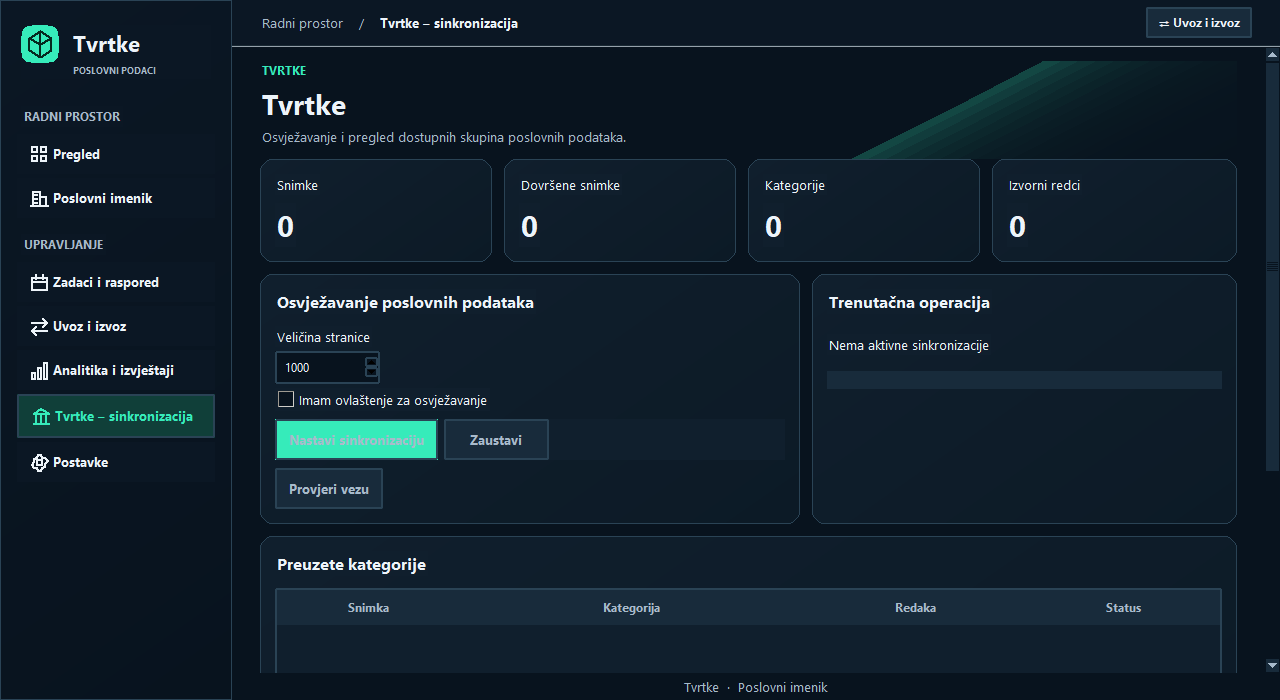
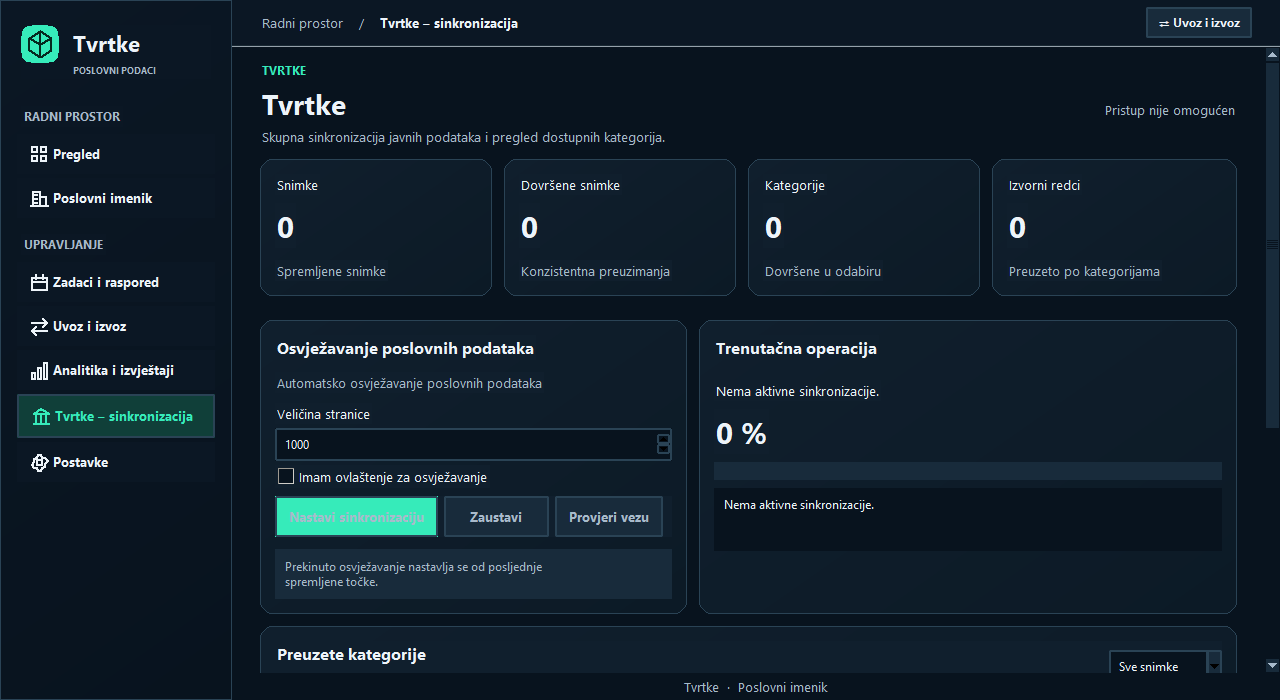
Align native synchronization view and enforce authorized refresh policy

diff --git a/src/native_sections.py b/src/native_sections.py
@@ -3,6 +3,7 @@ import tkinter as tk
 from tkinter import ttk, filedialog, messagebox
 from pathlib import Path
 from native_transfer import upload,download
+from native_progress import sync_progress
 from native_theme import Card, PANEL, TEXT, MUTED, ACCENT, PANEL2
 
 FORMATS={"CSV":"csv","JSON":"json","Excel":"xlsx"}
@@ -314,23 +315,30 @@ class SecondaryPages:
 
     def build_registry(self):
         view=self.views["registry"]
-        self.section_header(view,"TVRTKE","Tvrtke","Osvježavanje i pregled dostupnih skupina poslovnih podataka.")
-        metrics=ttk.Frame(view);metrics.pack(fill="x",pady=(0,12))
+        heading=ttk.Frame(view);heading.pack(fill="x")
+        copy=ttk.Frame(heading);copy.pack(side="left",fill="x",expand=True)
+        self.section_header(copy,"TVRTKE","Tvrtke","Skupna sinkronizacija javnih podataka i pregled dostupnih kategorija.")
+        self.registry_access_label=tk.StringVar(value="Provjera pristupa…")
+        ttk.Label(heading,textvariable=self.registry_access_label,style="Muted.TLabel").pack(side="right")
+        metrics=ttk.Frame(view);metrics.pack(fill="x",pady=(0,24))
         self.registry_values={}
         for col,(key,label) in enumerate((("runs","Snimke"),("complete","Dovršene snimke"),("categories","Kategorije"),("rows","Izvorni redci"))):
             metrics.columnconfigure(col,weight=1,uniform="metric")
             panel=Card(metrics,padding=15);panel.grid(row=0,column=col,sticky="nsew",padx=(0,12 if col<3 else 0))
             ttk.Label(panel,text=label,style="Panel.TLabel").pack(anchor="w",pady=(0,8))
             var=tk.StringVar(value="—");self.registry_values[key]=var
-            ttk.Label(panel,textvariable=var,font=("Segoe UI",22,"bold")).pack(anchor="w")
+            ttk.Label(panel,textvariable=var,style="Metric.TLabel").pack(anchor="w")
+            captions={"runs":"Spremljene snimke","complete":"Konzistentna preuzimanja","categories":"Dovršene u odabiru","rows":"Preuzeto po kategorijama"}
+            ttk.Label(panel,text=captions[key],style="PanelMuted.TLabel").pack(anchor="w",pady=(12,0))
         self.register_grid(metrics,4)
         grid=ttk.Frame(view);grid.pack(fill="x")
-        grid.columnconfigure(0,weight=1);grid.columnconfigure(1,weight=1)
+        grid.columnconfigure(0,weight=9);grid.columnconfigure(1,weight=8)
         actions=self.panel(grid,"Osvježavanje poslovnih podataka",0)
         operation=self.panel(grid,"Trenutačna operacija",1)
+        ttk.Label(actions,text="Automatsko osvježavanje poslovnih podataka",style="PanelMuted.TLabel").pack(anchor="w",pady=(0,10))
         ttk.Label(actions,text="Veličina stranice").pack(anchor="w")
         self.registry_limit=tk.StringVar(value="1000")
-        ttk.Spinbox(actions,from_=1,to=1000,textvariable=self.registry_limit,width=12).pack(anchor="w",pady=4)
+        ttk.Spinbox(actions,from_=1,to=1000,textvariable=self.registry_limit,width=12).pack(fill="x",pady=4)
         self.registry_permission=tk.BooleanVar()
         ttk.Checkbutton(actions,text="Imam ovlaštenje za osvježavanje",variable=self.registry_permission).pack(anchor="w")
         buttons=ttk.Frame(actions);buttons.pack(fill="x",pady=8)
@@ -338,41 +346,79 @@ class SecondaryPages:
         self.registry_start.pack(side="left")
         self.registry_stop=ttk.Button(buttons,text="Zaustavi",command=lambda:self.registry_operation("stop"))
         self.registry_stop.pack(side="left",padx=6)
-        self.registry_check=ttk.Button(actions,text="Provjeri vezu",command=lambda:self.registry_operation("check"))
-        self.registry_check.pack(anchor="w")
+        self.registry_check=ttk.Button(buttons,text="Provjeri vezu",command=lambda:self.registry_operation("check"))
+        self.registry_check.pack(side="left")
+        ttk.Label(actions,text="Prekinuto osvježavanje nastavlja se od posljednje spremljene točke.",style="Hint.TLabel",wraplength=310).pack(fill="x",pady=(4,0))
         self.registry_progress=tk.StringVar(value="Nema aktivne sinkronizacije")
         ttk.Label(operation,textvariable=self.registry_progress,wraplength=300).pack(anchor="w",pady=8)
         self.registry_bar=ttk.Progressbar(operation,maximum=100);self.registry_bar.pack(fill="x",pady=8)
+        self.registry_log=tk.Text(operation,height=3,wrap="word",background="#08131e",foreground=TEXT,relief="flat",padx=9,pady=8,font=("Segoe UI",-12),state="disabled")
+        self.registry_log.pack(fill="x")
+        self.registry_log_signature=None
         self.register_grid(grid,2)
-        category_panel=Card(view,"Preuzete kategorije",padding=15);category_panel.pack(fill="both",expand=True)
+        category_panel=Card(view,padding=15);category_panel.pack(fill="both",expand=True)
+        header=ttk.Frame(category_panel,style="PanelInner.TFrame");header.pack(fill="x",pady=(0,8))
+        copy=ttk.Frame(header,style="PanelInner.TFrame");copy.pack(side="left",fill="x",expand=True)
+        ttk.Label(copy,text="Preuzete kategorije",style="PanelTitle.TLabel").pack(anchor="w")
+        ttk.Label(copy,text="Dostupne skupine poslovnih podataka.",style="PanelMuted.TLabel").pack(anchor="w",pady=(5,0))
+        self.registry_filter=tk.StringVar(value="Sve snimke")
+        self.registry_filterbox=ttk.Combobox(header,textvariable=self.registry_filter,values=["Sve snimke"],state="readonly",width=13)
+        self.registry_filterbox.pack(side="right",padx=(6,0))
+        self.registry_filterbox.bind("<<ComboboxSelected>>",lambda _e:self.refresh_registry())
         self.registry_table=ttk.Treeview(category_panel,columns=("snapshot","category","rows","status"),show="headings",height=6)
         for key,label,width in (("snapshot","Snimka",90),("category","Kategorija",250),("rows","Redaka",130),("status","Status",100)):
-            self.registry_table.heading(key,text=label);self.registry_table.column(key,width=width)
+            self.registry_table.heading(key,text=label.upper(),anchor="w");self.registry_table.column(key,width=width)
         self.registry_table.pack(fill="both",expand=True)
         buttons=ttk.Frame(category_panel);buttons.pack(fill="x",pady=6)
         ttk.Button(buttons,text="Osvježi",command=self.refresh_registry).pack(side="right")
         ttk.Button(buttons,text="Otvori kategoriju",command=self.open_category).pack(side="right",padx=6)
         self.registry_table.bind("<Double-1>",lambda _e:self.open_category())
         self.registry_items={}
+        self.registry_pending=False
+        self.registry_signature=None
+        self.registry_percent=tk.StringVar(value="0 %")
+        ttk.Label(operation,textvariable=self.registry_percent,style="Metric.TLabel").pack(anchor="w",before=self.registry_bar)
 
     def refresh_registry(self):
-        if not self.client:return
+        if not self.client or self.registry_pending:return
+        self.registry_pending=True
         def done(result):
+            self.registry_pending=False
             data,status=result
             runs=data["runs"];categories=data["categories"]
             for key,value in (("runs",len(runs)),("complete",sum(bool(r["complete"]) for r in runs)),("categories",sum(bool(r["done"]) for r in categories)),("rows",sum(r["rows"] for r in categories))):
                 self.registry_values[key].set(f"{value:,}".replace(",","."))
-            self.registry_table.delete(*self.registry_table.get_children());self.registry_items.clear()
-            for index,row in enumerate(categories):
-                self.registry_items[str(index)]=row
-                self.registry_table.insert("","end",iid=str(index),values=(row["snapshot"],row["category"],f"{row['rows']} / {row['total'] if row['total'] is not None else '—'}","Preuzeto" if row["done"] else "U tijeku"))
+            options=["Sve snimke"]+[str(r["snapshot"]) for r in runs]
+            self.registry_filterbox.configure(values=options)
+            if self.registry_filter.get() not in options:self.registry_filter.set("Sve snimke")
+            filtered=[r for r in categories if self.registry_filter.get()=="Sve snimke" or str(r["snapshot"])==self.registry_filter.get()]
+            self.registry_access_label.set("Pristup omogućen" if data.get("configured") else "Pristup nije omogućen")
+            signature=tuple((r["snapshot"],r["category"],r["rows"],r["total"],r["done"]) for r in filtered)
+            if signature!=self.registry_signature:
+                self.registry_signature=signature
+                selected=self.registry_table.selection()
+                previous=self.registry_items.get(selected[0]) if selected else None
+                self.registry_table.delete(*self.registry_table.get_children());self.registry_items.clear()
+                for index,row in enumerate(filtered):
+                    key=str(index);self.registry_items[key]=row
+                    self.registry_table.insert("","end",iid=key,values=(row["snapshot"],row["category"],f"{row['rows']} / {row['total'] if row['total'] is not None else '—'}","Preuzeto" if row["done"] else "U tijeku"))
+                    if previous and (previous["snapshot"],previous["category"])==(row["snapshot"],row["category"]):self.registry_table.selection_set(key)
             active=status.get("status") in ("running","stopping")
             self.registry_start.configure(state="normal" if data.get("configured") and not active else "disabled")
             self.registry_check.configure(state="normal" if data.get("configured") and not active else "disabled")
             self.registry_stop.configure(state="normal" if active else "disabled")
-            self.registry_progress.set("Sinkronizacija je u tijeku…" if active else "Nema aktivne sinkronizacije")
-            self.registry_bar["value"]=100*status.get("projected",0)/max(1,status.get("projection_total",1)) if status.get("phase")=="projection" else 0
-        self.submit(lambda:(self.client.request("/api/registry"),self.client.request("/api/status")),done)
+            percent,label=sync_progress(status,categories)
+            self.registry_progress.set(label);self.registry_bar["value"]=percent
+            self.registry_percent.set(f"{int(percent)} %")
+            logs=tuple(str(x) for x in status.get("logs",[])[-10:]) or (label,)
+            if logs!=self.registry_log_signature:
+                self.registry_log_signature=logs
+                self.registry_log.configure(state="normal");self.registry_log.delete("1.0","end")
+                self.registry_log.insert("end","\n".join(logs));self.registry_log.see("end");self.registry_log.configure(state="disabled")
+        def failed(_exc):
+            self.registry_pending=False
+            self.registry_progress.set("Osvježavanje statusa nije uspjelo.")
+        self.submit(lambda:(self.client.request("/api/registry"),self.client.request("/api/status")),done,failed)
 
     def registry_operation(self,action):
         if not self.client:return

diff --git a/tests/test_native_progress.py b/tests/test_native_progress.py
@@ -1,0 +1,29 @@
+import unittest
+from unittest.mock import patch, Mock
+from native_progress import sync_progress
+from registry import start_registry
+from core import Collector
+
+class NativeProgressTests(unittest.TestCase):
+    def test_only_committed_completion_reaches_100(self):
+        for status,expected in [
+            ({"status":"running","phase":"projection","projected":10,"projection_total":10},99),
+            ({"status":"running","phase":"finalizing"},99),
+            ({"status":"completed","phase":"complete"},100),
+            ({"status":"completed","update_available":"22"},0),
+            ({"status":"failed","phase":"complete"},0),
+        ]:
+            self.assertEqual(sync_progress(status,[])[0],expected)
+    def test_counts_only_current_snapshot(self):
+        categories=[{"snapshot":"21","done":1},{"snapshot":"22","done":1},{"snapshot":"22","done":0}]
+        self.assertEqual(sync_progress({"status":"running","phase":"download","snapshot_id":"22","last":2},categories)[0],42.5)
+    def test_thread_forwards_refresh_policy(self):
+        bot=Collector(None)
+        registry=Mock()
+        registry.sync.return_value=False
+        with patch("registry.Client") as client, patch("registry.threading.Thread") as thread:
+            thread.side_effect=lambda target,daemon:Mock(start=target)
+            start_registry(bot,registry,("test","test"),allow_full_refresh=False)
+            registry.sync.assert_called_once_with(bot,client.return_value,500,pinned_snapshot=None,allow_full_refresh=False)
+            self.assertEqual(bot.snapshot()["status"],"completed")
+            self.assertNotIn("Sinkronizacija završena."," ".join(bot.snapshot()["logs"]))

diff --git a/src/native_desktop.py b/src/native_desktop.py
@@ -265,7 +265,10 @@ class Desktop(SecondaryPages):
         self.submit(lambda:(self.client.request("/api/cities"),self.client.request("/api/industries")),self.facets)
         if self.current_view=="overview":self.refresh_overview()
         elif self.current_view=="directory":self.refresh()
-        else:self.refresh_settings()
+        elif self.current_view=="settings":self.refresh_settings()
+        elif self.current_view=="jobs":self.refresh_jobs()
+        elif self.current_view=="registry":self.refresh_registry()
+        elif self.current_view=="analytics":self.refresh_analytics()
         self.poll_sync()
 
     def facets(self, result):
@@ -920,7 +923,11 @@ class Desktop(SecondaryPages):
                 if state=="completed":
                     self.page=1
                     if self.current_view=="overview":self.refresh_overview()
-                    else:self.refresh()
+                    elif self.current_view=="directory":self.refresh()
+                    elif self.current_view=="analytics":self.refresh_analytics()
+                    elif self.current_view=="jobs":self.refresh_jobs()
+                    elif self.current_view=="registry":self.refresh_registry()
+                    elif self.current_view=="settings":self.refresh_settings()
                     self.submit(lambda:(self.client.request("/api/cities"),self.client.request("/api/industries")),self.facets)
                 else:self.status.set("Sinkronizacija nije završena.")
         if not self.sync_polling:

diff --git a/src/native_progress.py b/src/native_progress.py
@@ -1,0 +1,23 @@
+"""Presentation of registry progress; never report completion before commit."""
+def sync_progress(status, categories):
+    state=status.get("status")
+    phase=status.get("phase")
+    if state=="completed" and status.get("update_available") and phase!="complete":
+        return 0,"Dostupna je nova snimka. Potvrdite preuzimanje."
+    if state=="completed" and phase=="complete":
+        return 100,"Sinkronizacija je završena."
+    if state=="failed":return 0,"Sinkronizacija nije uspjela. Spremljeni podaci su sačuvani."
+    if state=="stopped":return 0,"Sinkronizacija je zaustavljena. Preuzete stranice su sačuvane."
+    if state not in ("running","stopping"):return 0,"Nema aktivne sinkronizacije."
+    if state=="stopping":return 0,"Zaustavljanje operacije…"
+    if phase=="finalizing":return 99,"Završna provjera i spremanje poslovnih podataka…"
+    if phase=="projection":
+        total=max(1,status.get("projection_total",0))
+        count=max(0,min(total,status.get("projected",0)))
+        return 85+14*count/total,f"Obrada tvrtki: {count:,} / {total:,}".replace(",",".")
+    if phase=="download":
+        rows=[r for r in categories if r["snapshot"]==status.get("snapshot_id")]
+        total=max(1,status.get("last",0))
+        done=min(total,sum(bool(r["done"]) for r in rows))
+        return 85*done/total,f"Preuzimanje kategorija: {done} / {total}"
+    return 0,"Provjera pristupa i dostupnih podataka…"

diff --git a/src/registry.py b/src/registry.py
@@ -360,7 +360,10 @@ def start_registry(bot,registry,creds,limit=500,check=False,*,pinned_snapshot=No
                 cats=catalog(client.spec()); _,data=client.get('snapshots'); snaps=rows_of(data)
                 if not snaps: raise ValueError('API nije vratio dostupne snimke.')
                 bot.log(f'API dostupan · {len(cats)} kategorija · {len(snaps)} snimki.')
-            else: registry.sync(bot,client,limit,pinned_snapshot=pinned_snapshot); bot.log('Sinkronizacija završena.')
+            else:
+                complete=registry.sync(bot,client,limit,pinned_snapshot=pinned_snapshot,allow_full_refresh=allow_full_refresh)
+                if complete:bot.log('Sinkronizacija završena.')
+                else:bot.log('Dostupna je nova snimka; potrebna je potvrda preuzimanja.')
             bot.update(status='completed')
         except Stopped: bot.update(status='stopped'); bot.log('Zaustavljeno. Spremljene stranice ostaju dostupne.')
         except Exception as e: bot.inc('errors'); bot.update(status='failed',retryable=isinstance(e,TransientRegistryError)); bot.log(str(e) if isinstance(e,(ValueError,PermissionError)) else 'Pogreška: '+type(e).__name__)
